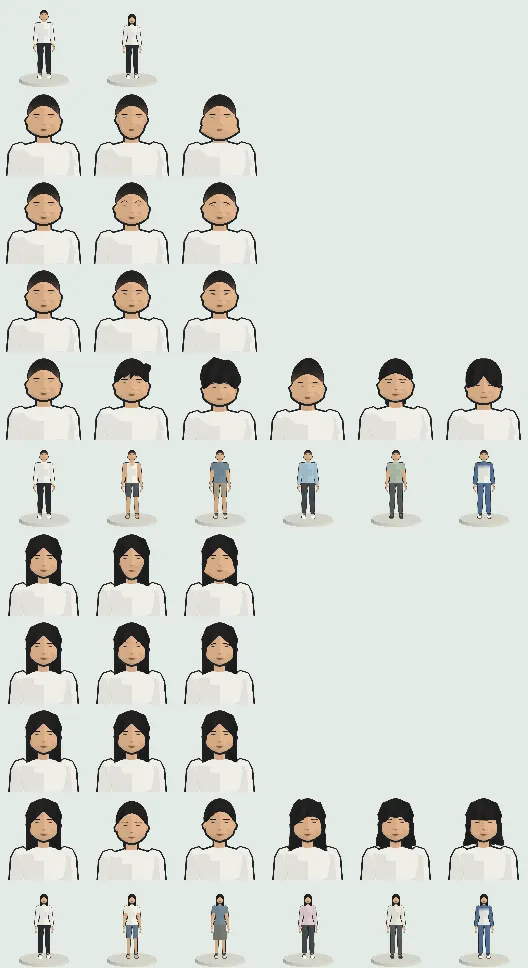
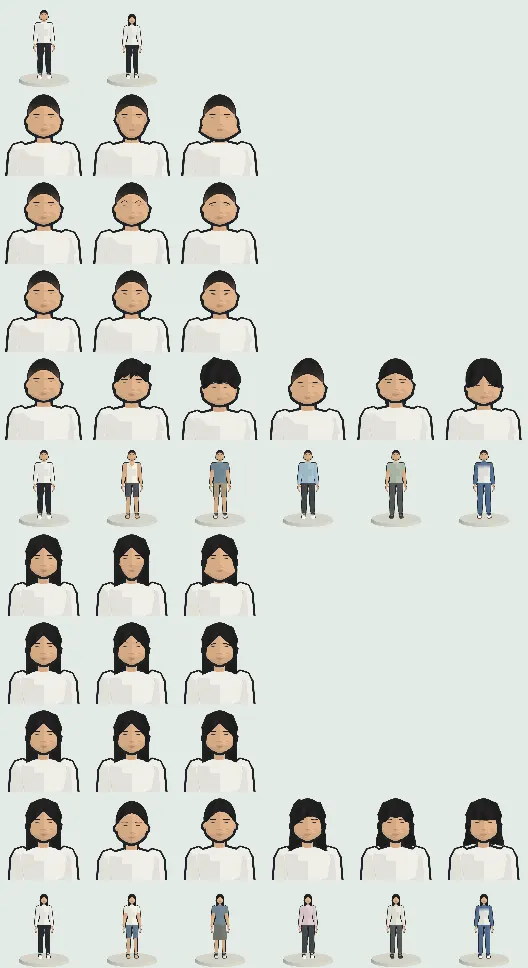
Paint facial details with vertex colours and match the street outline width

diff --git a/web/src/walk/creator-face.ts b/web/src/walk/creator-face.ts
@@ -31,30 +31,21 @@ export function facialFeatures(geometry: T.BufferGeometry, a: Avatar) {
   const group = new T.Group(),
     front = frontOfFace(geometry)
   group.name = 'creator-face'
+  const positions: number[] = [],
+    colors: number[] = [],
+    indices: number[] = []
   // Taper each contour to its corners and curve the surface around the cheeks.
-  function ribbon(
-    color: T.ColorRepresentation,
-    point: (t: number, v: number) => [number, number, number],
-  ) {
-    const p: number[] = [],
-      indices: number[] = []
+  function ribbon(color: T.ColorRepresentation, point: (t: number, v: number) => [number, number, number]) {
+    const pigment = new T.Color(color)
+    const start = positions.length / 3
     for (let i = 0; i <= 18; i++)
       for (let j = 0; j < 3; j++) {
         const [x, y, lift] = point(i / 18, j / 2)
-        p.push(x, y, front(x, y) - lift)
-        const k = i * 3 + j
+        colors.push(pigment.r, pigment.g, pigment.b)
+        positions.push(x, y, front(x, y) - lift)
+        const k = start + i * 3 + j
         if (i && j) indices.push(k - 4, k - 1, k, k - 4, k, k - 3)
       }
-    const g = new T.BufferGeometry()
-    g.setAttribute('position', new T.Float32BufferAttribute(p, 3))
-    g.setIndex(indices)
-    g.computeVertexNormals()
-    group.add(
-      new T.Mesh(
-        g,
-        new T.MeshStandardMaterial({color, roughness: 0.85, side: T.DoubleSide}),
-      ),
-    )
   }
   for (const side of [-1, 1]) {
     ribbon('#382e2b', (t, v) => [
@@ -85,5 +76,10 @@ export function facialFeatures(geometry: T.BufferGeometry, a: Avatar) {
       0.0018,
     ]
   })
+  const g = new T.BufferGeometry()
+  g.setAttribute('position', new T.Float32BufferAttribute(positions, 3))
+  g.setAttribute('color', new T.Float32BufferAttribute(colors, 3))
+  g.setIndex(indices)
+  group.add(new T.Mesh(g, new T.MeshBasicMaterial({vertexColors: true, side: T.DoubleSide})))
   return group
 }

diff --git a/web/src/walk/character.ts b/web/src/walk/character.ts
@@ -93,7 +93,7 @@ export function hairstyle(a: Avatar, library: T.Object3D) {
 export function styleCharacter(scene: T.Group, rig: AvatarRig, a: Avatar) {
   const head = rig.attachments.head!
   scene.userData.characterSkin = skinTones[a.skin]
-  addOutline(rig.skinnedMesh!, 0.011)
+  addOutline(rig.skinnedMesh!, 0.015)
   addOutline(scene.userData.creatorHair, 0.005)
   head.add(scene.userData.creatorHair)
   delete scene.userData.creatorHair

diff --git a/docs/character-creator.md b/docs/character-creator.md
@@ -6,9 +6,9 @@ actually wear today.
 
 ### 1. 外观方向
 
-参考广西街头日常穿着。角色采用原创低多边形几何、两到三档平涂明暗和深色外轮廓（`#1f2326`）。四肢略壮，肩线圆润，头身比约 1:6.5。男、女约 1.72 m 和 1.62 m，女性略收腰、胯略宽、肩窄约一成。
+参考广西街头日常穿着。角色采用原创低多边形几何、两到三档平涂明暗和深色外轮廓（`#1f2326`）。描边仅用于角色，以背面外扩生成，身体宽约 1.5 cm，随距离自然缩小。四肢略壮，肩线圆润，头身比约 1:6.5。男、女约 1.72 m 和 1.62 m，女性略收腰、胯略宽、肩窄约一成。
 
-- 脸部用短线表现眼眉，嘴唇保留一小块唇色，鼻子用一小块阴影。圆脸、鹅蛋脸和方下颌通过面宽、下颌轮廓区分。
+- 脸部用贴合脸面的顶点色短线表现眼眉，嘴唇保留一小块唇色，鼻子用一小块阴影。圆脸、鹅蛋脸和方下颌通过面宽、下颌轮廓区分。
 - 五档肤色为 `#f3d7bf`、`#e9c3a1`、`#dcb08a`（默认）、`#c99772`、`#a97b58`。发色为黑、深棕、栗棕和灰棕。
 - 发型露出额头，侧面让开脸颊。男款为寸头、微分碎盖、纹理烫、渐变短发、狼尾和中分。女款为长直发、高马尾、低丸子头、锁骨发、短狼尾和齐刘海短发。每款用 300–600 个顶点组成闭合的低多边形发簇。
 - 首套穿搭都不背包，颜色中低饱和，无品牌标识。
